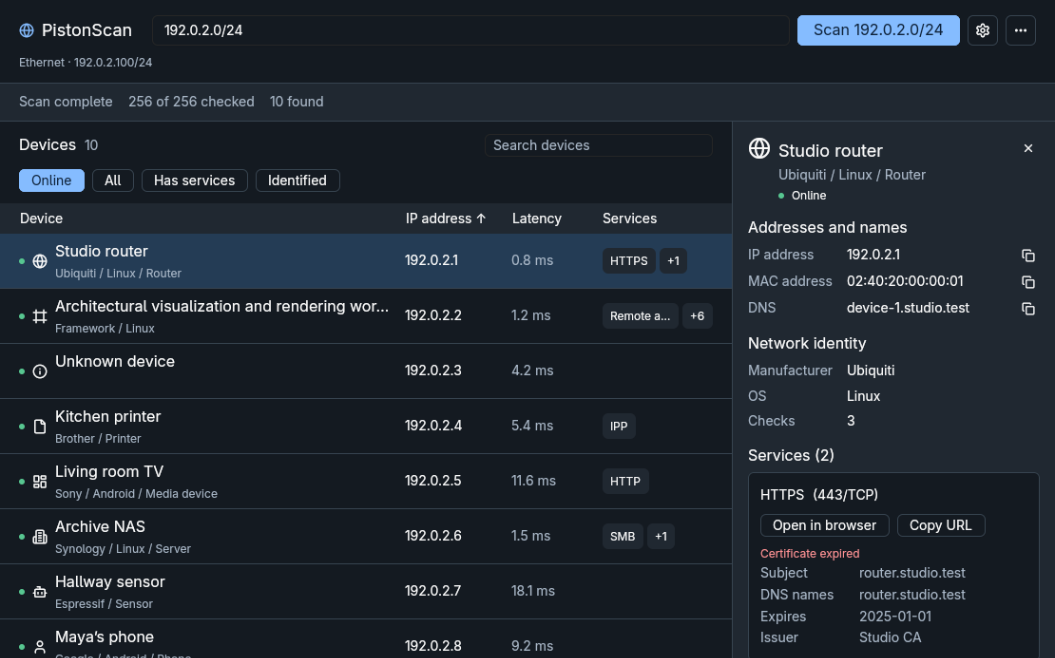
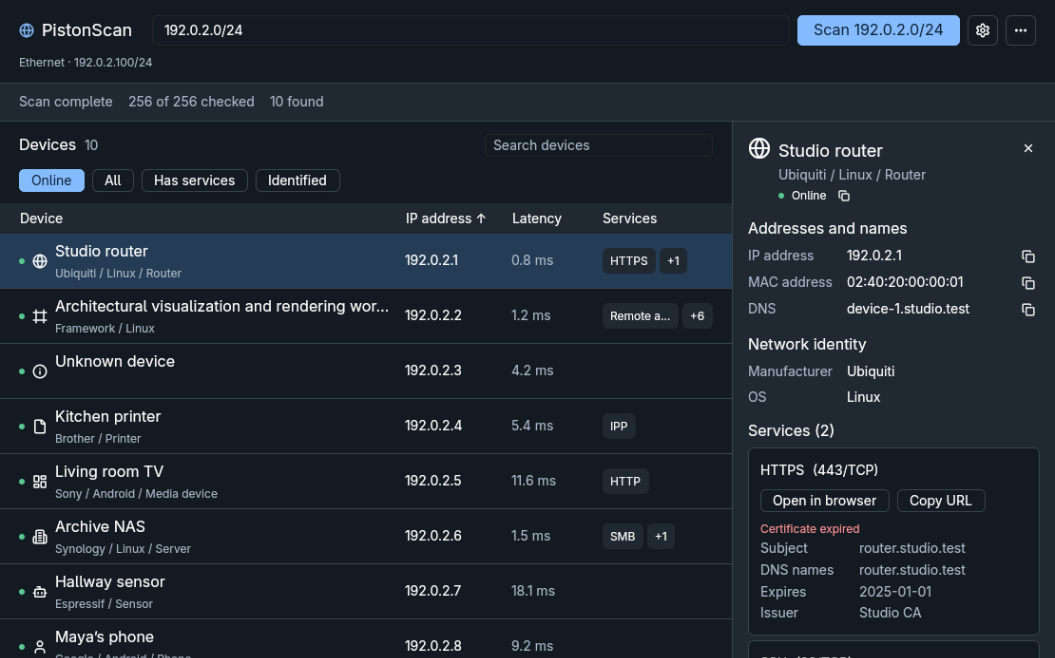
fix(ui): polish inspector text and saved scan action
Show a single-line inspector title with an ellipsis, a full-name tooltip, and a copy action. Let long field values wrap at separators while preserving the clipboard text.

Style the empty-state import action as a link and remove the configured ping count from Network identity. Refresh the README previews for both themes.

diff --git a/src/desktop/inspector.rs b/src/desktop/inspector.rs
@@ -125,6 +125,7 @@ fn header(host: &HostResult, cx: &Context<Desktop>) -> Div {
     let icon = super::results::device_icon(host);
     let theme = cx.theme();
     let title = name(host).to_owned();
+    let copy_title = title.clone();
     let subtitle = super::results::device_subtitle(host);
     div()
         .flex()
@@ -141,7 +142,8 @@ fn header(host: &HostResult, cx: &Context<Desktop>) -> Div {
                         .text_lg()
                         .font_bold()
                         .id("inspector-name")
-                        .line_clamp(2)
+                        .line_clamp(1)
+                        .text_ellipsis()
                         .child(title.clone())
                         .tooltip(move |window, cx| {
                             gpui_component::tooltip::Tooltip::new(title.clone()).build(window, cx)
@@ -167,7 +169,19 @@ fn header(host: &HostResult, cx: &Context<Desktop>) -> Div {
                         } else {
                             theme.muted_foreground
                         }))
-                        .child(if host.reachable { "Online" } else { "Offline" }),
+                        .child(if host.reachable { "Online" } else { "Offline" })
+                        .child(
+                            Button::new("copy-device-name")
+                                .xsmall()
+                                .ghost()
+                                .icon(IconName::Copy)
+                                .tooltip("Copy device name")
+                                .on_click(move |_, _, cx| {
+                                    cx.write_to_clipboard(ClipboardItem::new_string(
+                                        copy_title.clone(),
+                                    ));
+                                }),
+                        ),
                 ),
         )
         .child(
@@ -189,7 +203,6 @@ fn network_identity(host: &HostResult, cx: &Context<Desktop>) -> Option<Div> {
         ("Manufacturer", host.manufacturer.clone()),
         ("OS", host.os_guess.clone()),
         ("TTL", known_count(host.ttl)),
-        ("Checks", known_count(host.attempts)),
     ];
     let fields = identity
         .iter()
@@ -249,6 +262,11 @@ fn known_count(value: u64) -> String {
     }
 }
 
+fn wrap_value(value: &str) -> String {
+    // Give GPUI a break opportunity after punctuation without changing clipboard text.
+    value.replace('.', ".\u{200b}").replace('-', "-\u{200b}")
+}
+
 fn field(label: &str, value: &str, copy_index: Option<usize>, cx: &Context<Desktop>) -> Div {
     let copy = value.to_owned();
     div()
@@ -268,7 +286,7 @@ fn field(label: &str, value: &str, copy_index: Option<usize>, cx: &Context<Deskt
                 .flex_1()
                 .min_w_0()
                 .overflow_hidden()
-                .child(value.to_owned()),
+                .child(wrap_value(value)),
         )
         .when_some(copy_index, |row, index| {
             row.child(
@@ -458,7 +476,17 @@ fn https_port(port: u64) -> bool {
 
 #[cfg(test)]
 mod tests {
-    use super::{certificate_warning, known, known_count};
+    use super::{certificate_warning, known, known_count, wrap_value};
+
+    #[test]
+    fn long_values_can_wrap_at_punctuation() {
+        assert_eq!(
+            wrap_value("design-studio.example"),
+            "design-\u{200b}studio.\u{200b}example",
+            "Offer a break after each separator"
+        );
+        assert_eq!(wrap_value("Linux"), "Linux", "Preserve plain words");
+    }
 
     #[test]
     fn unknown_values_are_hidden() {

diff --git a/src/desktop/results.rs b/src/desktop/results.rs
@@ -290,7 +290,7 @@ impl Desktop {
                     .child(
                         Button::new("open-saved-scan")
                             .small()
-                            .ghost()
+                            .link()
                             .label("Open a saved scan")
                             .on_click(cx.listener(|view, _, window, cx| view.import(window, cx))),
                     )
